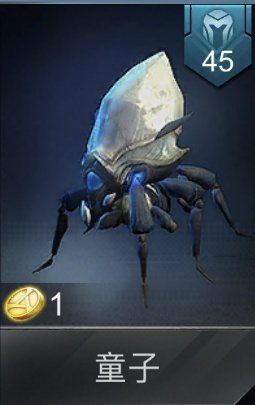
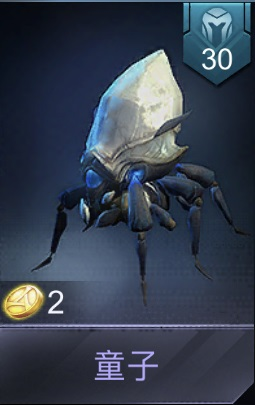
update data

diff --git a/scripts/item.js b/scripts/item.js
@@ -37,43 +37,6 @@ obj={
     }
 },
 
-"童子": {
-    name: "童子",								// 名称
-    cost: 1,									// 花费
-    image: [									// 图片
-        "pictures/童子.jpg"
-    ],
-    feature: [									// 特征
-        "技能伤害",
-    ],
-    nature: [									// 连携
-        "灵能者",
-        "支援"
-    ],
-    ability: {									// 技能
-        description: "童子的能量场为周围圆形区域内友方单位提供充能，使其获得能量恢复效果。",		// 技能描述
-        damage: [300, 500, 700]					// 技能伤害
-    },
-    property: {									// 兵种属性
-        attack: {								// 攻击
-            min_damage: [40, 80, 160],			// 最小攻击
-            max_damage: [45, 90, 180],		// 最大攻击
-            reduce_armor: [0, 0, 0],			// 护甲削弱
-            ability_damage: [0, 0, 0],			// 技能伤害 (%)
-            critical_strike: [0, 0, 0],			// 暴击 (%)
-            blood_sucking: [0, 0, 0],			// 吸血 (%)
-            speed: 1.7
-        },
-        defense: {								// 防御
-            health: [500, 1000, 2800],			// 生命
-            Armor: [5, 5, 5],					// 护甲
-            ability_defense: [0, 0, 0],			// 技能防御
-            miss: [0, 0, 0],					// 闪避 (%)
-            health_recovery: [0, 0, 0]			// 生命恢复
-        }
-    }
-},
-
 
 "天师": {
     name: "天师",								// 名称
@@ -202,7 +165,7 @@ obj={
         "狙击"
     ],
     ability: {									// 技能
-        description: "鸟骑兵强化自己，提升攻击力",		// 技能描述
+        description: "鸟骑兵连续物理攻击达到一定次数后的下一次攻击将短暂蓄力发射强力弩，此次攻击必定暴击。",		// 技能描述
         damage: [300, 500, 700]					// 技能伤害
     },
     property: {									// 兵种属性
@@ -219,6 +182,44 @@ obj={
             health: [400, 800, 1600],			// 生命
             Armor: [5, 5, 5],					// 护甲
             ability_defense: [0, 0, 0],			// 技能防御
+            miss: [0, 0, 0],					// 闪避 (%)
+            health_recovery: [0, 0, 0]			// 生命恢复
+        }
+    }
+},
+
+
+"维修机": {
+    name: "维修机",								// 名称
+    cost: 1,									// 花费
+    image: [									// 图片
+        "pictures/维修机.jpg"
+    ],
+    feature: [									// 特征
+        "团队辅助"
+    ],
+    nature: [									// 连携
+        "空军",
+        "支援"
+    ],
+    ability: {									// 技能
+        description: "工程机持续强化一个距离自己最远的友军，大幅提升其攻击力，仅能伤害，友军被强化期间不会死亡。",		// 技能描述
+        damage: [300, 500, 700]					// 技能伤害
+    },
+    property: {									// 兵种属性
+        attack: {								// 攻击
+            min_damage: [83, 166, 333],			// 最小攻击
+            max_damage: [100, 200, 400],		// 最大攻击
+            reduce_armor: [0, 0, 0],			// 护甲削弱
+            ability_damage: [0, 0, 0],			// 技能伤害 (%)
+            critical_strike: [0, 0, 0],			// 暴击 (%)
+            blood_sucking: [0, 0, 0],			// 吸血 (%)
+            speed: 2.0
+        },
+        defense: {								// 防御
+            health: [550, 1100, 2200],			// 生命
+            Armor: [5, 5, 5],					// 护甲
+            ability_defense: [20, 20, 20],			// 技能防御(%)
             miss: [0, 0, 0],					// 闪避 (%)
             health_recovery: [0, 0, 0]			// 生命恢复
         }
@@ -444,6 +445,44 @@ obj={
         defense: {								// 防御
             health: [500, 1000, 1900],			// 生命
             Armor: [0, 0, 0],					// 护甲
+            ability_defense: [0, 0, 0],			// 技能防御
+            miss: [0, 0, 0],					// 闪避 (%)
+            health_recovery: [0, 0, 0]			// 生命恢复
+        }
+    }
+},
+
+
+"童子": {
+    name: "童子",								// 名称
+    cost: 2,									// 花费
+    image: [									// 图片
+        "pictures/童子.jpg"
+    ],
+    feature: [									// 特征
+        "技能伤害",
+    ],
+    nature: [									// 连携
+        "灵能者",
+        "支援"
+    ],
+    ability: {									// 技能
+        description: "童子的能量场为周围圆形区域内友方单位提供充能，使其获得能量恢复效果。",		// 技能描述
+        damage: [300, 500, 700]					// 技能伤害
+    },
+    property: {									// 兵种属性
+        attack: {								// 攻击
+            min_damage: [40, 80, 160],			// 最小攻击
+            max_damage: [45, 90, 180],		// 最大攻击
+            reduce_armor: [0, 0, 0],			// 护甲削弱
+            ability_damage: [0, 0, 0],			// 技能伤害 (%)
+            critical_strike: [0, 0, 0],			// 暴击 (%)
+            blood_sucking: [0, 0, 0],			// 吸血 (%)
+            speed: 1.7
+        },
+        defense: {								// 防御
+            health: [500, 1000, 2800],			// 生命
+            Armor: [5, 5, 5],					// 护甲
             ability_defense: [0, 0, 0],			// 技能防御
             miss: [0, 0, 0],					// 闪避 (%)
             health_recovery: [0, 0, 0]			// 生命恢复
@@ -1085,42 +1124,7 @@ obj={
     }
 },
 
-"维修机": {
-    name: "维修机",								// 名称
-    cost: 3,									// 花费
-    image: [									// 图片
-        "pictures/维修机.jpg"
-    ],
-    feature: [									// 特征
-        "团队辅助"
-    ],
-    nature: [									// 连携
-        "空军",
-        "支援"
-    ],
-    ability: {									// 技能
-        description: "工程机持续强化一个距离自己最远的友军，大幅提升其攻击力，仅能伤害，友军被强化期间不会死亡。",		// 技能描述
-        damage: [300, 500, 700]					// 技能伤害
-    },
-    property: {									// 兵种属性
-        attack: {								// 攻击
-            min_damage: [83, 166, 333],			// 最小攻击
-            max_damage: [100, 200, 400],		// 最大攻击
-            reduce_armor: [0, 0, 0],			// 护甲削弱
-            ability_damage: [0, 0, 0],			// 技能伤害 (%)
-            critical_strike: [0, 0, 0],			// 暴击 (%)
-            blood_sucking: [0, 0, 0],			// 吸血 (%)
-            speed: 2.0
-        },
-        defense: {								// 防御
-            health: [550, 1100, 2200],			// 生命
-            Armor: [10, 10, 10],					// 护甲
-            ability_defense: [20, 20, 20],			// 技能防御(%)
-            miss: [0, 0, 0],					// 闪避 (%)
-            health_recovery: [0, 0, 0]			// 生命恢复
-        }
-    }
-},
+
 
 "特种兵": {
     name: "特种兵",								// 名称
